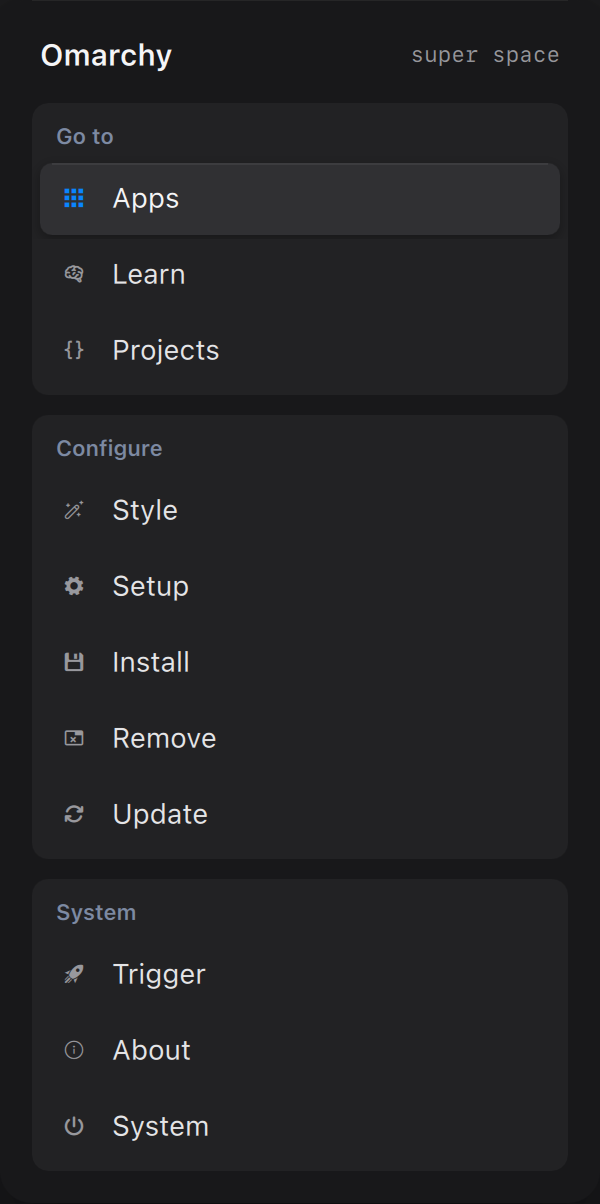
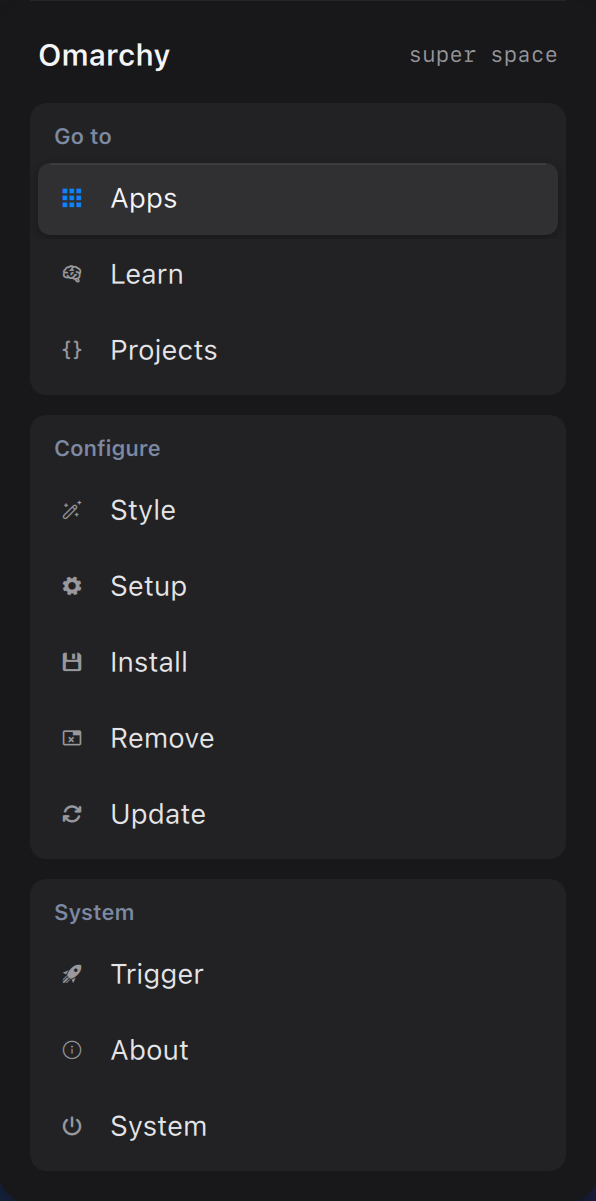
Add screenshots of every Graphite surface, with made-up data
New before and after screenshots of the Wi-Fi, Bluetooth and Claude Code
panels, the dock, the Files app, the speed tests, the Wi-Fi QR code and
the Keybindings view. The Audio, Display and menu shots are retaken.
Each is cropped to the element and taken on an empty workspace.

docs/screenshots/demo/demo-mode patches the installed panels to show
made-up network names, devices, addresses, plan and QR code (demo-qr),
so the screenshots can be made again with no personal data. The old
"before" panels had the same values painted over.

The README gets a Graphite components section with the images, and the
Dock and Known issue sections now describe the Graphite dock and menu.

Claude-Session: https://claude.ai/code/session_01Hu6pgaYtbFMTJVzXwUxnRs

diff --git a/README.md b/README.md
@@ -107,21 +107,80 @@ Claude, Claude Design, Figma and Paper, with their icons. They run in Chromium, 
 - SF Pro in menus and GTK apps, SF Mono in the terminal and the bar
 - Two backgrounds: "glow" and "plain"
 
+The theme's color tokens are in `colors.toml`. Templates in `files/.config/omarchy/themed/` turn them into `graphite.css` (for HTML pages and GTK apps) and the `[graphite]` section of the shell theme (for the Omarchy shell). The design brief is `docs/theme-direction.md`.
+
+## Graphite components
+
+Omarchy 4 draws the bar, the menus, the panels and the overlays in one Quickshell process. This repo has Graphite copies of those plugins (`files/.config/omarchy/plugins/graphite.*`). They use shared parts from `plugins/graphite-ui/`: group, label, value field, button, switch, slider, keycap, chip, search field and more. `install.sh` turns them on. Omarchy's own files are not changed.
+
+The screenshots show made-up data. `docs/screenshots/demo/demo-mode on` makes the panels show made-up network names, devices, addresses and a made-up Wi-Fi QR code. `demo-mode off` restores them.
+
+### Menu and keybindings
+
+The Omarchy menu has named groups (Go to, Configure, System). The Keybindings view (Super+K) shows one keycap per key, in 11 sections with jump-to chips. Tab and Shift+Tab move between sections. Series such as workspaces 1 to 10 show as one row. The search matches names and keys, for example "super shift f" or "workspace 3".
+
+| Menu, before | Menu, after |
+|---|---|
+| ![Omarchy menu before](docs/screenshots/menu-before.png) | ![Omarchy menu with Graphite groups](docs/screenshots/menu-after.png) |
+
+![Keybindings view with sections, chips and keycaps](docs/screenshots/keybindings-groups.png)
+
+![Keybindings search for "workspace 3"](docs/screenshots/keybindings-search.png)
+
+### Bar panels
+
+Wi-Fi, Bluetooth, Audio, Display and Claude Code. One click on another bar icon switches to its panel.
+
+| Before | After |
+|---|---|
+| ![Wi-Fi panel before](docs/screenshots/panel-network-before.png) | ![Wi-Fi panel after](docs/screenshots/panel-network-after.png) |
+| ![Bluetooth panel before](docs/screenshots/panel-bluetooth-before.png) | ![Bluetooth panel after](docs/screenshots/panel-bluetooth-after.png) |
+| ![Audio panel before](docs/screenshots/panel-audio-before.png) | ![Audio panel after](docs/screenshots/panel-audio-after.png) |
+| ![Display panel before](docs/screenshots/panel-monitor-before.png) | ![Display panel after](docs/screenshots/panel-monitor-after.png) |
+| ![Claude Code panel before](docs/screenshots/panel-agents-before.png) | ![Claude Code panel after](docs/screenshots/panel-agents-after.png) |
+
+### Speed tests and Wi-Fi sharing
+
+| Internet speed | Disk speed | Wi-Fi QR code |
+|---|---|---|
+| ![Internet speed test](docs/screenshots/speedtest-after.png) | ![Disk speed test](docs/screenshots/disk-speedtest-after.png) | ![Wi-Fi QR code](docs/screenshots/wifiqr-after.png) |
+
+### Files
+
+Graphite styles for the Files app (Nautilus) in `files/.config/gtk-4.0/gtk.css`. A small library (`files/.local/src/gtk4-pointer/`) gives GTK 4 apps the hand cursor on clickable items.
+
+| Before | After |
+|---|---|
+| ![Files before](docs/screenshots/files-before.png) | ![Files after](docs/screenshots/files-after.png) |
+| ![Files list before](docs/screenshots/files-before-list.png) | ![Files list after](docs/screenshots/files-after-list.png) |
+
+### Workspace guide
+
+The guide page (`files/.local/share/workspace-guide/index.html`) is also the component sheet.
+
+| Before | After |
+|---|---|
+| ![Guide before](docs/screenshots/guide-before.png) | ![Guide after](docs/screenshots/guide-after.png) |
+
 ### Cursor
 
 The pre-Tahoe macOS cursor theme (`apple_cursor` package), set in `files/.config/hypr/looknfeel.lua` and `files/.icons/default/index.theme`.
 
 ### Dock
 
-`nwg-dock-hyprland` at the bottom of the screen. It hides until the pointer reaches the bottom edge. `files/.local/bin/dock-start` starts it, and `files/.config/hypr/autostart.lua` runs that at login. The base pins are in `files/.config/nwg-dock-hyprland/pinned`. `projects-apply` adds your project sites after Projects and writes the result to `~/.cache/nwg-dock-pinned`.
+A Graphite plugin in the Omarchy shell (`files/.config/omarchy/plugins/graphite.dock/`) at the bottom of the screen. It hides until the pointer reaches the bottom edge. Right-click an icon to pin or unpin it, add or remove a gap, or empty the trash. It replaces `nwg-dock-hyprland`, which drew blurry and missing icons. The base pins are still in `files/.config/nwg-dock-hyprland/pinned`, and `projects-apply` adds your project sites. To go back to `nwg-dock-hyprland`, run `omarchy plugin disable graphite.dock`, then `dock-start`.
+
+| Before | After |
+|---|---|
+| ![nwg-dock before](docs/screenshots/dock-before.png) | ![Graphite dock](docs/screenshots/dock-after.png) |
 
 ### Display
 
 `files/.config/hypr/monitors.lua` sets scale 2 for the MacBook's Retina screen. Change it for other screens.
 
-## Known issue: Keybindings menu in SF Pro
+## Known issue: Omarchy's Keybindings menu in SF Pro
 
-The Keybindings menu (Super+K) lines up its columns with spaces, which works only in a monospace font. With SF Pro as the menu font, the arrows do not line up:
+The Graphite menu draws keybindings as keycaps (see above), so this issue shows only with Omarchy's own menu. Omarchy's Keybindings menu (Super+K) lines up its columns with spaces, which works only in a monospace font. With SF Pro as the menu font, the arrows do not line up:
 
 ![Keybindings menu in SF Pro, columns not aligned](docs/screenshots/keybindings-before.png)
 
@@ -131,13 +190,13 @@ A fix for Omarchy is ready but not yet submitted. It lets the menu draw real col
 |---|---|---|
 | ![After, SF Pro](docs/screenshots/keybindings-after-sf-pro.png) | ![After, monospace](docs/screenshots/keybindings-after-monospace.png) | ![After, filtered](docs/screenshots/keybindings-after-filtered.png) |
 
-Until Omarchy includes the fix, this repo has the "before" behavior.
+Until Omarchy includes the fix, Omarchy's own menu has the "before" behavior.
 
 ## Packages
 
 | Package | Source | Used for |
 |---|---|---|
-| `nwg-dock-hyprland` | Arch | Dock |
+| `nwg-dock-hyprland` | Arch | Old dock, kept as a fallback |
 | `breeze-icons` | Arch | Icon for the Projects launcher |
 | `otf-apple-sf-pro` | AUR | SF Pro font |
 | `nerd-fonts-sf-mono` | AUR | SF Mono with Nerd Font icons |
